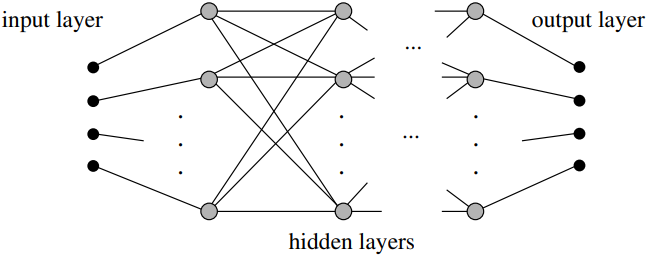
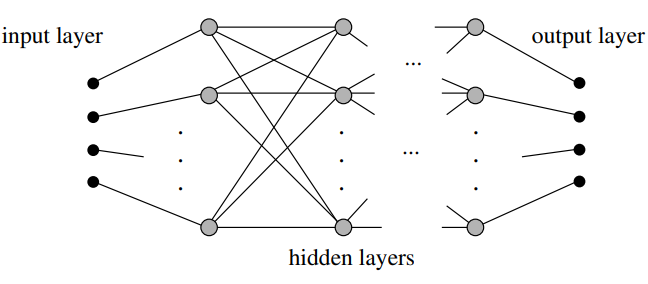
latex: close some ToDos

diff --git a/latex/content/literature_review.tex b/latex/content/literature_review.tex
@@ -7,9 +7,10 @@
 }
 
 \subsection{Deep Learning Basics}
-\emph{Deep Learning} is a new field of machine learning that makes use of \emph{Deep Neural Networks} (DNN)~\cite[pp.~125f]{nn_intro96}. In an abstract point of view, a DNN is just a mathematical function to map a given input vector to an output vector. It is assembled from densely-connected units called \emph{neurons} (or \emph{perceptrons}). Usually, the neurons are grouped into layers~\cite[p.~125]{nn_intro96} (see figure~\ref{fig:layered_architecture}). The first layer of the DNN has direct access to the input vector, thus it is called the \emph{input layer}. In contrast, the last layer of the DNN produces the output vector and is therefore called \emph{output layer}. In between, there is an arbitrary number of \emph{hidden layers} that make up for the depth of the neural network.
+\emph{Deep Learning} is a new field of machine learning that makes use of \emph{Deep Neural Networks} (DNN)~\cite[pp.~125f]{nn_intro96}. In an abstract point of view, a DNN is just a mathematical function to map a given input vector to an output vector. It is assembled from densely-connected units called \emph{neurons} (or \emph{perceptrons}).
 
-% TODO: increase spacing above image
+Usually, the neurons are grouped into layers~\cite[p.~125]{nn_intro96} (see figure~\ref{fig:layered_architecture}). The first layer of the DNN has direct access to the input vector, thus it is called the \emph{input layer}. In contrast, the last layer of the DNN produces the output vector and is therefore called \emph{output layer}. In between, there is an arbitrary number of \emph{hidden layers} that make up for the depth of the neural network.
+
 \begin{figure}[h]
     \centering
     \includegraphics[width=0.7\textwidth]{images/generic_layered_architecture}
@@ -17,9 +18,10 @@
     \label{fig:layered_architecture}
 \end{figure}
 
-Each neuron is itself a small computational unit that applies several mathematical operations, namely an \emph{input function} and an \emph{activation function}. Traditionally, the neurons of subsequent layers are densely connected, meaning a neuron of layer $k$ receives the output values from all neurons in layer $k-1$. Based on those values, the input function calculates the \emph{net input} for the neuron. In most cases this is done by using weights on the connections to perform a weighted sum over all values. The net input is then passed through the activation function whose main purpose is to break the linearity of the DNN. For the activation function there are plenty of options to choose from. An overview of commonly used activation functions can be found in~\cite{act_funcs18} and includes for example a binary step function, a sigmoid function or rectified linear units (ReLU). Figure~\ref{fig:perceptron} depicts all the calculations done inside of a neuron.
+Each neuron is itself a small computational unit that applies several mathematical operations, namely an \emph{input function} and an \emph{activation function}. Traditionally, the neurons of subsequent layers are densely connected, meaning a neuron of layer $k$ receives the output values from all neurons in layer $k-1$. Based on those values, the input function calculates the \emph{net input} for the neuron. In most cases this is done by using weights on the connections to perform a weighted sum over all values.
 
-% TODO: find/create better matching illustration, or explain the figure a bit more
+The net input is then passed through the activation function whose main purpose is to break the linearity of the DNN. For the activation function there are plenty of options to choose from. An overview of commonly used activation functions can be found in~\cite{act_funcs18} and includes for example a binary step function, a sigmoid function or rectified linear units (ReLU). Some activation functions require a threshold value to control the sensitivity of the neuron. Figure~\ref{fig:perceptron} depicts all the calculations done inside of a neuron.
+
 \begin{figure}[h]
     \centering
     \includegraphics[width=0.7\textwidth]{images/perceptron}

diff --git a/latex/thesis.tex b/latex/thesis.tex
@@ -25,8 +25,6 @@
 
     \mainmatter
 
-%    \lstinputlisting[caption={Some test code}, language=Python]{../python/code.py}
-
     \input{content/introduction}
     \input{content/literature_review}
     \input{content/data_analysis}

diff --git a/latex/content/tikz/unet_metrics.tex b/latex/content/tikz/unet_metrics.tex
@@ -163,7 +163,6 @@
     };
     \addlegendentry{U-Net-28D}
 
-    % TODO: there are marks missing, check that
     \end{axis}
 
     \begin{axis}[
